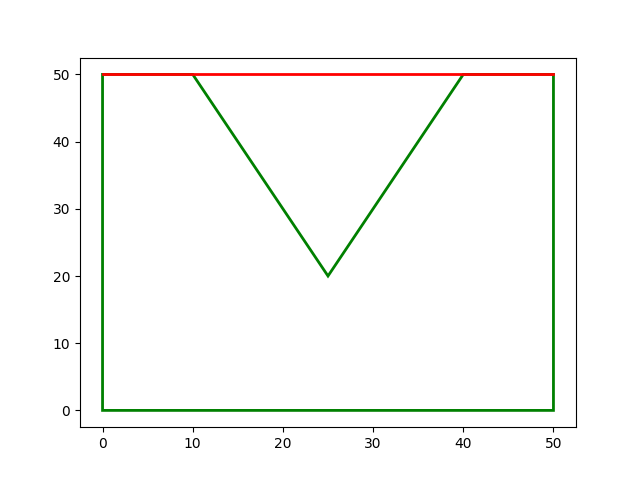
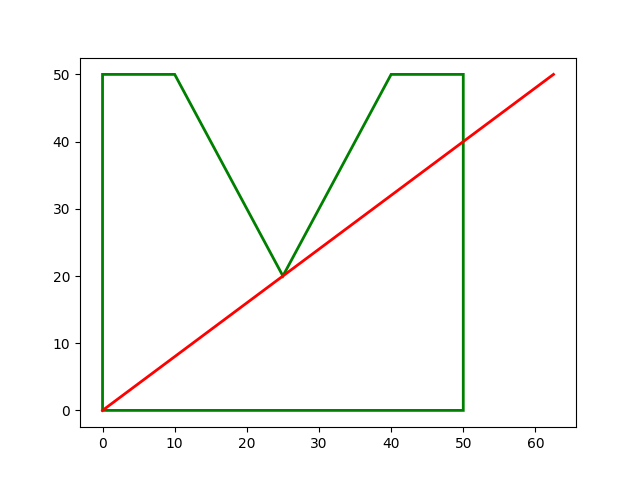
fixed no return from getDistance

diff --git a/Assignment 1/solution.py b/Assignment 1/solution.py
@@ -69,7 +69,7 @@ def checkIntersection(vList, lcList, v1, v2):
         if [poi_x, poi_y] == [float(lv1[0]), float(lv1[1])] or [poi_x, poi_y] == [float(lv2[0]), float(lv2[1])]: # intersection at endpoint
         	continue
         v1, v2 = replacePoint(v1, v2, poi_x, poi_y)
-        break
+
 
     return v1, v2
 
@@ -100,7 +100,7 @@ def maxLine(vList, lcList):
         for j, v2 in enumerate(vList):
             if j == i: # dont check the same point
                 continue
-            tmax = getDistance(vList, lcList, v1, v2)
+            tmax, v1, v2 = getDistance(vList, lcList, v1, v2)
             if tmax > max:
                 mx[0] = v1[0]
                 mx[1] = v2[0]
@@ -149,8 +149,9 @@ mx, my = maxLine(vList, lcList) # get max line
 exportPlot(vList, mx, my) # draw plot and save
 
 
+## TEST CASE ##
 # max, v1, v2 = getDistance(vList, lcList, [0, 0], [25, 20])
 # print "max: " + str(max)
 # exportPlot(vList, [v1[0], v2[0]], [v1[1], v2[1]])
 
-# print "runtime " + str(time.time() - start) + " seconds" # calculate and display runtime
+print "runtime " + str(time.time() - start) + " seconds" # calculate and display runtime
